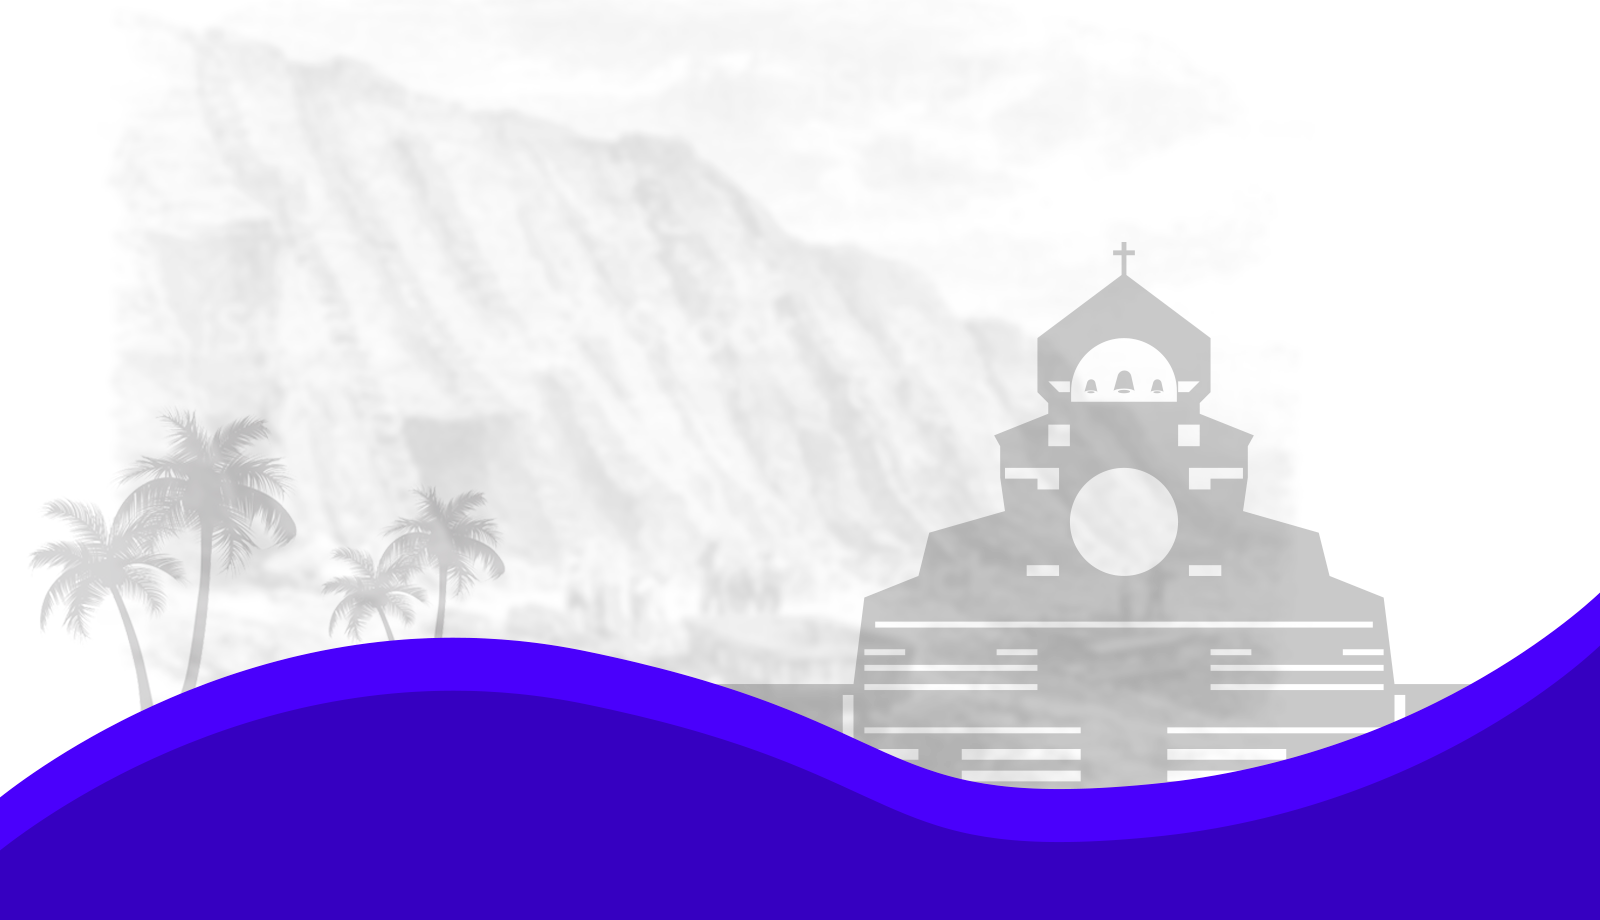
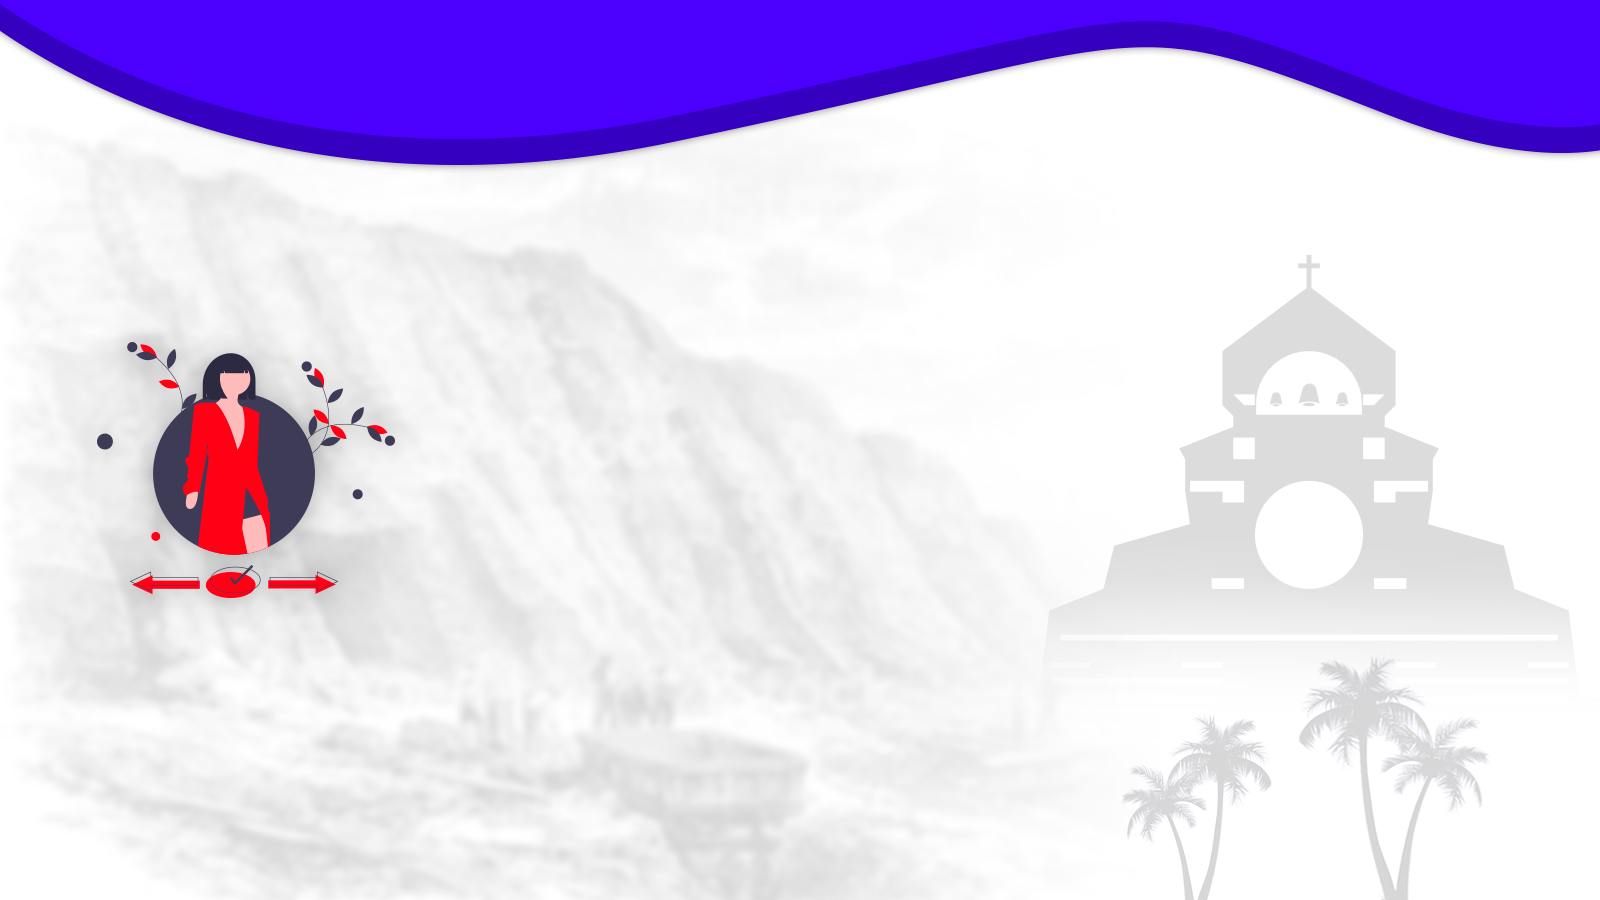
ii

diff --git a/home.php b/home.php
@@ -13,7 +13,15 @@
     <title>InfoChincha</title>
     <link rel="icon" href="IMG/infochincha_icon.png">
     <style type="text/css">
-    	*{overflow: hidden}
+    	*{overflow: hidden
+
+        }
+        html, body{
+  height:100%
+  margin :0px;border: 0px;
+padding: 0px;
+margin: 0px;
+}
    
     #loadpage{
             display: block;
@@ -25,7 +33,7 @@
             top:0;
             left:0;
             z-index: 1000;
-            overflow-x:scroll;
+            overflow-x:hidden;
      overflow-y:hidden;
         }
         #loadpage p{
@@ -42,37 +50,56 @@
             margin:auto;
             
         }
-
+        .curved-div {
+        background: #3100bc;
+        color: #FFF;
+        text-align: center;
+        }
+        .curved-div h1 {
+        font-size: 6rem;
+        font-family: -apple-system, BlinkMacSystemFont, 'Segoe UI', Roboto, Oxygen, Ubuntu, Cantarell, 'Open Sans', 'Helvetica Neue', sans-serif;
+            }
+            .curved-div p {
+            font-size: 1rem;
+            font-family: -apple-system, BlinkMacSystemFont, 'Segoe UI', Roboto, Oxygen, Ubuntu, Cantarell, 'Open Sans', 'Helvetica Neue', sans-serif;
+            }           
+            .curved-div svg {
+            display: block;
+                }
+            .textos{
+            background: red;
+            }
+            img{
+                position: absolute;
+                top:10px;
+                opacity: 10%;
+            }
     </style>
 </head>
 <body background="c.png">
+ 
+<!--     <div class="curved-div">
+  <h1>InfoChincha</h1>
+  <p>
+   Sorteo de la canasta de víveres 2020.
+   Elaborado por InfoChincha.
+  </p>
+  <svg viewBox="0 0 1440 319">
+    <path fill="#fff" fill-opacity="1" d="M0,32L48,80C96,128,192,224,288,224C384,224,480,128,576,90.7C672,53,768,75,864,96C960,117,1056,139,1152,149.3C1248,160,1344,160,1392,160L1440,160L1440,320L1392,320C1344,320,1248,320,1152,320C1056,320,960,320,864,320C768,320,672,320,576,320C480,320,384,320,288,320C192,320,96,320,48,320L0,320Z"></path>
+  </svg> -->
+</div>
     <script type="text/javascript">
         $(window).on('load',function(){
         $("#loadpage").delay(700).fadeOut("slow");
     });
     </script>
     <span id="loadpage" >
-        <p>InfoChincha</p>
+        <img src="logo.png">
     </span>
-    <header>
-        <div class="container">
-            <div class="textos">
-                <h1>SORTEO CANASTA DE VÍVERES 2020</h1>
-                <h2>InfoChincha</h2>
-                <a href="participante.php">ENTRAR</a>
-            </div>
-            <img src="madre.png" alt="">
-            
-        </div>
-    </header>
-<!--     <div class="wave">
-        <div style="height: 150px; overflow: hidden;" >
-            <svg viewBox="0 0 500 150" preserveAspectRatio="none" style="height: 100%; width: 100%;">
-                <path d="M0.00,49.99 C150.00,150.00 349.20,-49.99 500.00,49.99 L500.00,150.00 L0.00,150.00 Z" style="stroke: none; fill: #fff;">
-                    
-                </path>
-            </svg>
-        </div>
-    </div> -->
+   
+<!-- <object data="ejemplo.svg" type="image/svg+xml">
+  
+  <img src="pis.svg" alt="Imagen PNG alternativa">
+</object> -->
 </body>
 </html>

diff --git a/participante.php b/participante.php
@@ -30,7 +30,7 @@ body {
 }
 body::-webkit-scrollbar{
 	left:10px;
-	width: 7px;
+	width: 10px;
 }
 body::-webkit-scrollbar-thumb{
 	background: #4100f7;
@@ -404,6 +404,10 @@ mysqli_close($link);
     	left: 0;
     	background: #4100f7;
     	color:white;
+    	font-family: 'Work Sans', sans-serif; justify-content: center;
+            align-content: center;
+            flex-direction: column;
+            text-align: center;
   	}
   </style>
 	<div id="ganador"><?php echo $gana; ?><p id="gana">GANADOR</p></div>
@@ -418,7 +422,7 @@ mysqli_close($link);
 
 </div>
 <footer>
-	Derechos Reservados
+	InfoChincha Contigo
 </footer>
 </body>
 
